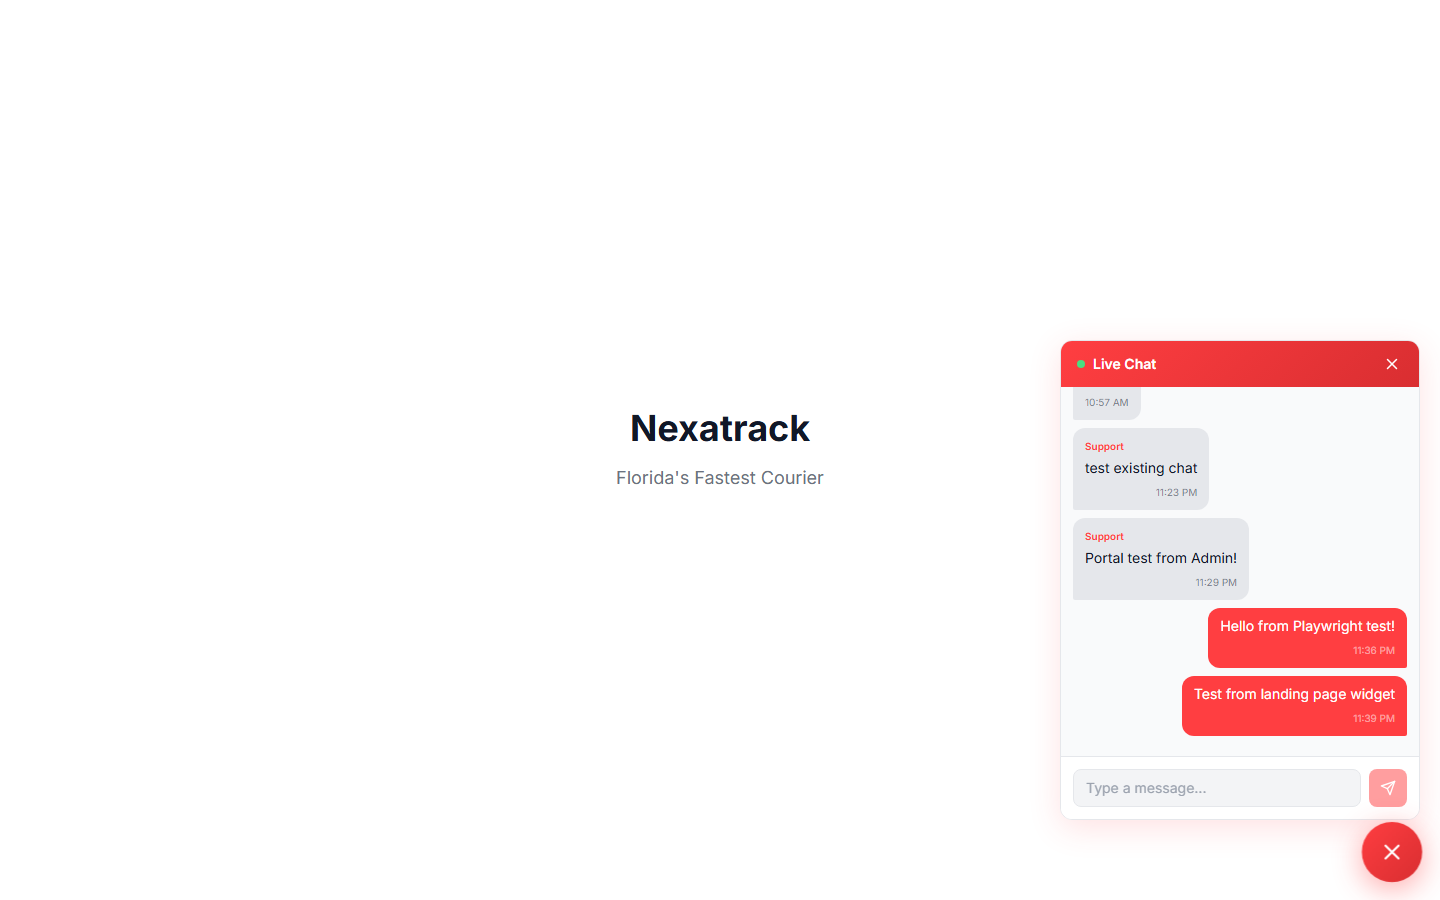
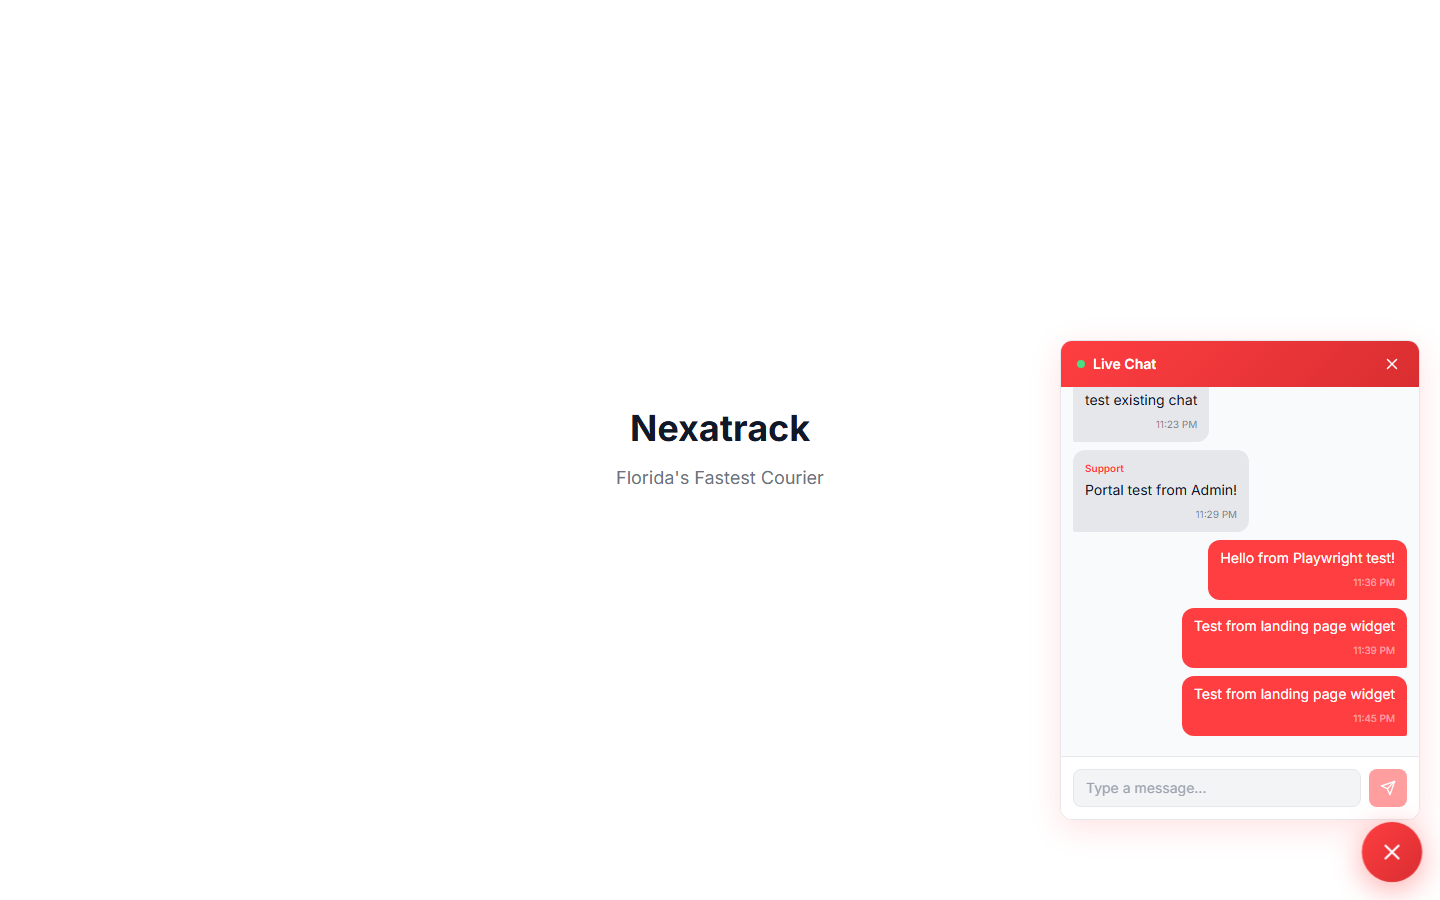
feat: full landing page with nav, hero, stats, features, CTA, footer

Changed region(s): [[0.75, 0.5911, 1.0, 0.7467], [0.75, 0.4356, 0.875, 0.56]]

diff --git a/app/page.tsx b/app/page.tsx
@@ -1,11 +1,100 @@
 import ChatWidget from "@/components/chat-widget"
+import { Package, Truck, MapPin, Clock, Shield, HeadphonesIcon } from "lucide-react"
+
+const features = [
+  { icon: Truck, title: "Same-Day Delivery", desc: "Florida-wide same-day delivery. We pick up and deliver within hours, not days." },
+  { icon: MapPin, title: "Real-Time Tracking", desc: "Track every shipment live on the map. Know exactly where your package is at all times." },
+  { icon: Clock, title: "Route Optimization", desc: "AI-powered route planning ensures your deliveries take the fastest path, every time." },
+  { icon: Shield, title: "Proof of Delivery", desc: "Digital POD with photos and signatures. Full chain-of-custody for every parcel." },
+  { icon: HeadphonesIcon, title: "24/7 Support", desc: "Live chat with our team. Real people, real answers, real fast." },
+  { icon: Package, title: "Multi-Branch Network", desc: "Branches across Florida. Pickup and drop-off at any location, free of charge." },
+]
+
+const stats = [
+  { value: "500+", label: "Deliveries/Day" },
+  { value: "50+", label: "Florida Cities" },
+  { value: "99.8%", label: "On-Time Rate" },
+  { value: "200+", label: "Active Drivers" },
+]
 
 export default function Home() {
   return (
-    <main className="flex min-h-screen flex-col items-center justify-center" style={{backgroundColor:'var(--card-bg)'}}>
-      <h1 className="text-4xl font-bold mb-4" style={{color:'var(--text-primary)'}}>Nexatrack</h1>
-      <p className="text-lg" style={{color:'var(--text-muted)'}}>Florida&apos;s Fastest Courier</p>
+    <div className="flex flex-col min-h-screen" style={{ backgroundColor: 'var(--main-bg)' }}>
+      <nav className="flex items-center justify-between px-6 py-4" style={{ borderBottom: '1px solid var(--card-border)' }}>
+        <div className="flex items-center gap-2">
+          <div className="flex h-8 w-8 items-center justify-center rounded-lg bg-gradient-to-br from-[#FF3E41] to-[#d92e31] text-sm font-bold text-white shadow-lg shadow-[#FF3E41]/20">N</div>
+          <span className="font-bold text-lg" style={{ color: 'var(--text-primary)' }}>Nexatrack</span>
+        </div>
+        <div className="flex items-center gap-4">
+          <a href="/auth/login" className="text-sm font-medium px-4 py-2 rounded-lg transition-colors hover:text-[var(--text-primary)]" style={{ color: 'var(--text-secondary)' }}>Sign In</a>
+          <a href="/auth/register" className="text-sm font-medium px-4 py-2 rounded-lg text-white transition-all shadow hover:shadow-[0_4px_16px_rgba(255,62,65,0.4)] hover:-translate-y-0.5" style={{ background: 'linear-gradient(135deg, #FF3E41, #d92e31)' }}>Get Started</a>
+        </div>
+      </nav>
+
+      <section className="flex flex-col items-center justify-center text-center px-6 py-24 md:py-32" style={{ background: 'radial-gradient(ellipse at center, rgba(255,62,65,0.08) 0%, transparent 60%)' }}>
+        <div className="max-w-3xl">
+          <div className="inline-flex items-center gap-2 px-3 py-1 rounded-full text-xs font-medium mb-6" style={{ backgroundColor: 'rgba(255,62,65,0.1)', color: 'var(--accent)', border: '1px solid rgba(255,62,65,0.2)' }}>
+            <span className="h-1.5 w-1.5 rounded-full bg-green-400" /> Florida&apos;s Fastest Courier
+          </div>
+          <h1 className="text-5xl md:text-7xl font-extrabold tracking-tight mb-6" style={{ color: 'var(--text-primary)' }}>
+            Deliveries That
+            <span className="block text-transparent bg-clip-text bg-gradient-to-r from-[#FF3E41] to-[#ff6b6b]"> Move at Speed</span>
+          </h1>
+          <p className="text-lg md:text-xl mb-8 max-w-2xl mx-auto" style={{ color: 'var(--text-muted)' }}>
+            Same-day courier across all of Florida. Real-time tracking, proof of delivery, and a network of drivers ready to move your packages — from Miami to Tallahassee.
+          </p>
+          <div className="flex flex-col sm:flex-row items-center justify-center gap-4">
+            <a href="/auth/register" className="px-8 py-3 rounded-xl text-white font-semibold text-sm transition-all shadow hover:shadow-[0_6px_24px_rgba(255,62,65,0.45)] hover:-translate-y-0.5" style={{ background: 'linear-gradient(135deg, #FF3E41, #d92e31)' }}>Start Shipping</a>
+            <a href="/track" className="px-8 py-3 rounded-xl font-semibold text-sm transition-all border hover:border-[var(--accent)] hover:text-[var(--text-primary)]" style={{ borderColor: 'var(--card-border)', color: 'var(--text-secondary)' }}>Track a Package</a>
+          </div>
+        </div>
+      </section>
+
+      <section className="px-6 py-16">
+        <div className="max-w-5xl mx-auto grid grid-cols-2 md:grid-cols-4 gap-4">
+          {stats.map((s) => (
+            <div key={s.label} className="text-center p-6 rounded-xl border" style={{ borderColor: 'var(--card-border)', backgroundColor: 'var(--card-bg)' }}>
+              <p className="text-3xl md:text-4xl font-extrabold mb-1" style={{ color: 'var(--accent)' }}>{s.value}</p>
+              <p className="text-sm" style={{ color: 'var(--text-muted)' }}>{s.label}</p>
+            </div>
+          ))}
+        </div>
+      </section>
+
+      <section className="px-6 py-16 md:py-24" style={{ borderTop: '1px solid var(--card-border)' }}>
+        <div className="max-w-5xl mx-auto">
+          <h2 className="text-3xl md:text-4xl font-bold text-center mb-4" style={{ color: 'var(--text-primary)' }}>Everything You Need</h2>
+          <p className="text-center mb-12 max-w-xl mx-auto" style={{ color: 'var(--text-muted)' }}>From dispatch to delivery, Nexatrack gives you full control over your courier operations.</p>
+          <div className="grid md:grid-cols-2 lg:grid-cols-3 gap-6">
+            {features.map((f) => {
+              const Icon = f.icon
+              return (
+                <div key={f.title} className="p-6 rounded-xl border transition-all" style={{ borderColor: 'var(--card-border)', backgroundColor: 'var(--card-bg)' }}>
+                  <div className="flex h-10 w-10 items-center justify-center rounded-lg mb-4" style={{ backgroundColor: 'rgba(255,62,65,0.1)' }}>
+                    <Icon size={20} style={{ color: 'var(--accent)' }} />
+                  </div>
+                  <h3 className="font-semibold mb-2" style={{ color: 'var(--text-primary)' }}>{f.title}</h3>
+                  <p className="text-sm" style={{ color: 'var(--text-muted)' }}>{f.desc}</p>
+                </div>
+              )
+            })}
+          </div>
+        </div>
+      </section>
+
+      <section className="px-6 py-20 text-center" style={{ borderTop: '1px solid var(--card-border)' }}>
+        <div className="max-w-xl mx-auto p-10 rounded-2xl border" style={{ borderColor: 'rgba(255,62,65,0.2)', background: 'radial-gradient(ellipse at center, rgba(255,62,65,0.06) 0%, transparent 70%)' }}>
+          <h2 className="text-2xl md:text-3xl font-bold mb-4" style={{ color: 'var(--text-primary)' }}>Ready to Ship?</h2>
+          <p className="mb-8" style={{ color: 'var(--text-muted)' }}>Join hundreds of Florida businesses that trust Nexatrack for their same-day deliveries.</p>
+          <a href="/auth/register" className="inline-flex px-8 py-3 rounded-xl text-white font-semibold text-sm transition-all shadow hover:shadow-[0_6px_24px_rgba(255,62,65,0.45)] hover:-translate-y-0.5" style={{ background: 'linear-gradient(135deg, #FF3E41, #d92e31)' }}>Create Free Account</a>
+        </div>
+      </section>
+
+      <footer className="px-6 py-8 text-center text-xs" style={{ borderTop: '1px solid var(--card-border)', color: 'var(--text-muted)' }}>
+        <p>&copy; {new Date().getFullYear()} Nexatrack Courier Services. Florida&apos;s Fastest Same-Day Delivery.</p>
+      </footer>
+
       <ChatWidget />
-    </main>
-  );
+    </div>
+  )
 }